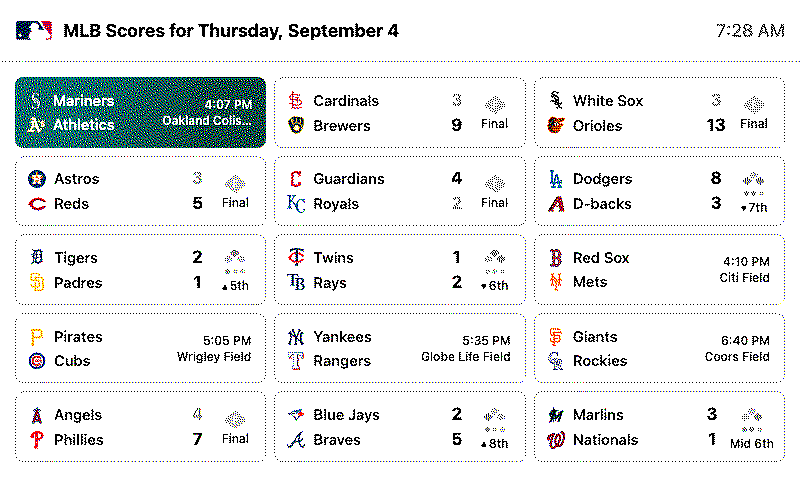
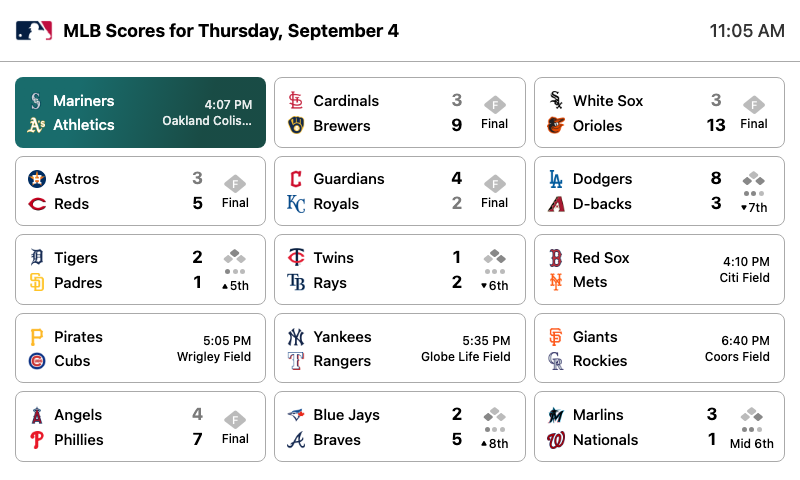
Enabled dummy data by default while testing legibility

diff --git a/src/static/js/diamond.js b/src/static/js/diamond.js
@@ -18,7 +18,7 @@ function formatInningsStatus(status, isDynamicColors = false) {
       : isEinkOptimized
         ? getCSSVariable('--eink-text')
         : getCSSVariable('--diamond-arrow-regular');
-    return `<svg width="6" height="5" viewBox="0 0 7 6" fill="none" xmlns="http://www.w3.org/2000/svg" style="display: inline-block; margin-right: 2px; vertical-align: middle;"><path d="M2.63398 0.499999C3.01888 -0.166668 3.98113 -0.166667 4.36603 0.5L6.53109 4.25C6.91599 4.91667 6.43486 5.75 5.66506 5.75H1.33493C0.565135 5.75 0.084011 4.91667 0.468911 4.25L2.63398 0.499999Z" fill="${arrowColor}"/></svg>${inning}`;
+    return `<span class="inning-arrow"><svg width="6" height="5" viewBox="0 0 7 6" fill="none" xmlns="http://www.w3.org/2000/svg" style="display: inline-block; margin-right: 2px; vertical-align: middle;"><path d="M2.63398 0.499999C3.01888 -0.166668 3.98113 -0.166667 4.36603 0.5L6.53109 4.25C6.91599 4.91667 6.43486 5.75 5.66506 5.75H1.33493C0.565135 5.75 0.084011 4.91667 0.468911 4.25L2.63398 0.499999Z" fill="${arrowColor}"/></svg></span>${inning}`;
   }
   
   if (status.startsWith('Bottom ')) {
@@ -28,7 +28,7 @@ function formatInningsStatus(status, isDynamicColors = false) {
       : isEinkOptimized
         ? getCSSVariable('--eink-text')
         : getCSSVariable('--diamond-arrow-regular');
-    return `<svg width="6" height="5" viewBox="0 0 7 6" fill="none" xmlns="http://www.w3.org/2000/svg" style="display: inline-block; margin-right: 2px; margin-bottom: 1px; vertical-align: middle; transform: rotate(180deg);"><path d="M2.63398 0.499999C3.01888 -0.166668 3.98113 -0.166667 4.36603 0.5L6.53109 4.25C6.91599 4.91667 6.43486 5.75 5.66506 5.75H1.33493C0.565135 5.75 0.084011 4.91667 0.468911 4.25L2.63398 0.499999Z" fill="${arrowColor}"/></svg>${inning}`;
+    return `<span class="inning-arrow"><svg width="6" height="5" viewBox="0 0 7 6" fill="none" xmlns="http://www.w3.org/2000/svg" style="display: inline-block; margin-right: 2px; margin-bottom: 1px; vertical-align: middle; transform: rotate(180deg);"><path d="M2.63398 0.499999C3.01888 -0.166668 3.98113 -0.166667 4.36603 0.5L6.53109 4.25C6.91599 4.91667 6.43486 5.75 5.66506 5.75H1.33493C0.565135 5.75 0.084011 4.91667 0.468911 4.25L2.63398 0.499999Z" fill="${arrowColor}"/></svg></span>${inning}`;
   }
   
   
@@ -40,7 +40,7 @@ function formatInningsStatus(status, isDynamicColors = false) {
       : isEinkOptimized
         ? getCSSVariable('--eink-text')
         : getCSSVariable('--diamond-arrow-regular');
-    return `<svg width="6" height="5" viewBox="0 0 7 6" fill="none" xmlns="http://www.w3.org/2000/svg" style="display: inline-block; margin-right: 2px; margin-bottom: 1px; vertical-align: middle; transform: rotate(180deg);"><path d="M2.63398 0.499999C3.01888 -0.166668 3.98113 -0.166667 4.36603 0.5L6.53109 4.25C6.91599 4.91667 6.43486 5.75 5.66506 5.75H1.33493C0.565135 5.75 0.084011 4.91667 0.468911 4.25L2.63398 0.499999Z" fill="${arrowColor}"/></svg>${inning}`;
+    return `<span class="inning-arrow"><svg width="6" height="5" viewBox="0 0 7 6" fill="none" xmlns="http://www.w3.org/2000/svg" style="display: inline-block; margin-right: 2px; margin-bottom: 1px; vertical-align: middle; transform: rotate(180deg);"><path d="M2.63398 0.499999C3.01888 -0.166668 3.98113 -0.166667 4.36603 0.5L6.53109 4.25C6.91599 4.91667 6.43486 5.75 5.66506 5.75H1.33493C0.565135 5.75 0.084011 4.91667 0.468911 4.25L2.63398 0.499999Z" fill="${arrowColor}"/></svg></span>${inning}`;
   }
   
   // Replace "Middle" with "Mid" for shorter display

diff --git a/src/static/styles/display-styles.css b/src/static/styles/display-styles.css
@@ -110,9 +110,9 @@
   --eink-border-medium: var(--color-gray-300);
   --eink-border-dark: var(--color-gray-400);
 
-  /* E-ink Optimized Variables (darker for better contrast) */
-  --eink-optimized-text-secondary: #555;
-  --eink-optimized-text-muted: #666;
+  /* E-ink Optimized Variables (much darker for e-ink clarity) */
+  --eink-optimized-text-secondary: #333;
+  --eink-optimized-text-muted: #444;
   --eink-optimized-border-light: #aaa;
   --eink-optimized-border-medium: #888;
   --eink-optimized-border-dark: #666;
@@ -156,13 +156,10 @@
 }
 
 body {
-  font-family:
-    'SF Pro Text',
-    -apple-system,
-    BlinkMacSystemFont,
-    'Segoe UI',
-    Roboto,
-    sans-serif;
+  font-family: 'SF Pro Text';
+  -webkit-font-smoothing: subpixel-antialiased;
+  text-rendering: optimizeLegibility;
+  font-variant-ligatures: none;
 }
 
 /* Device Frame */
@@ -572,6 +569,12 @@ body.eink-optimized .out-dot {
 
 body.eink-optimized .out-dot.filled {
   background: #888 !important;
+}
+
+/* Inning arrow positioning */
+.inning-arrow {
+  position: relative;
+  top: -1px;
 }
 
 .theme-mlb-scoreboard .header {
